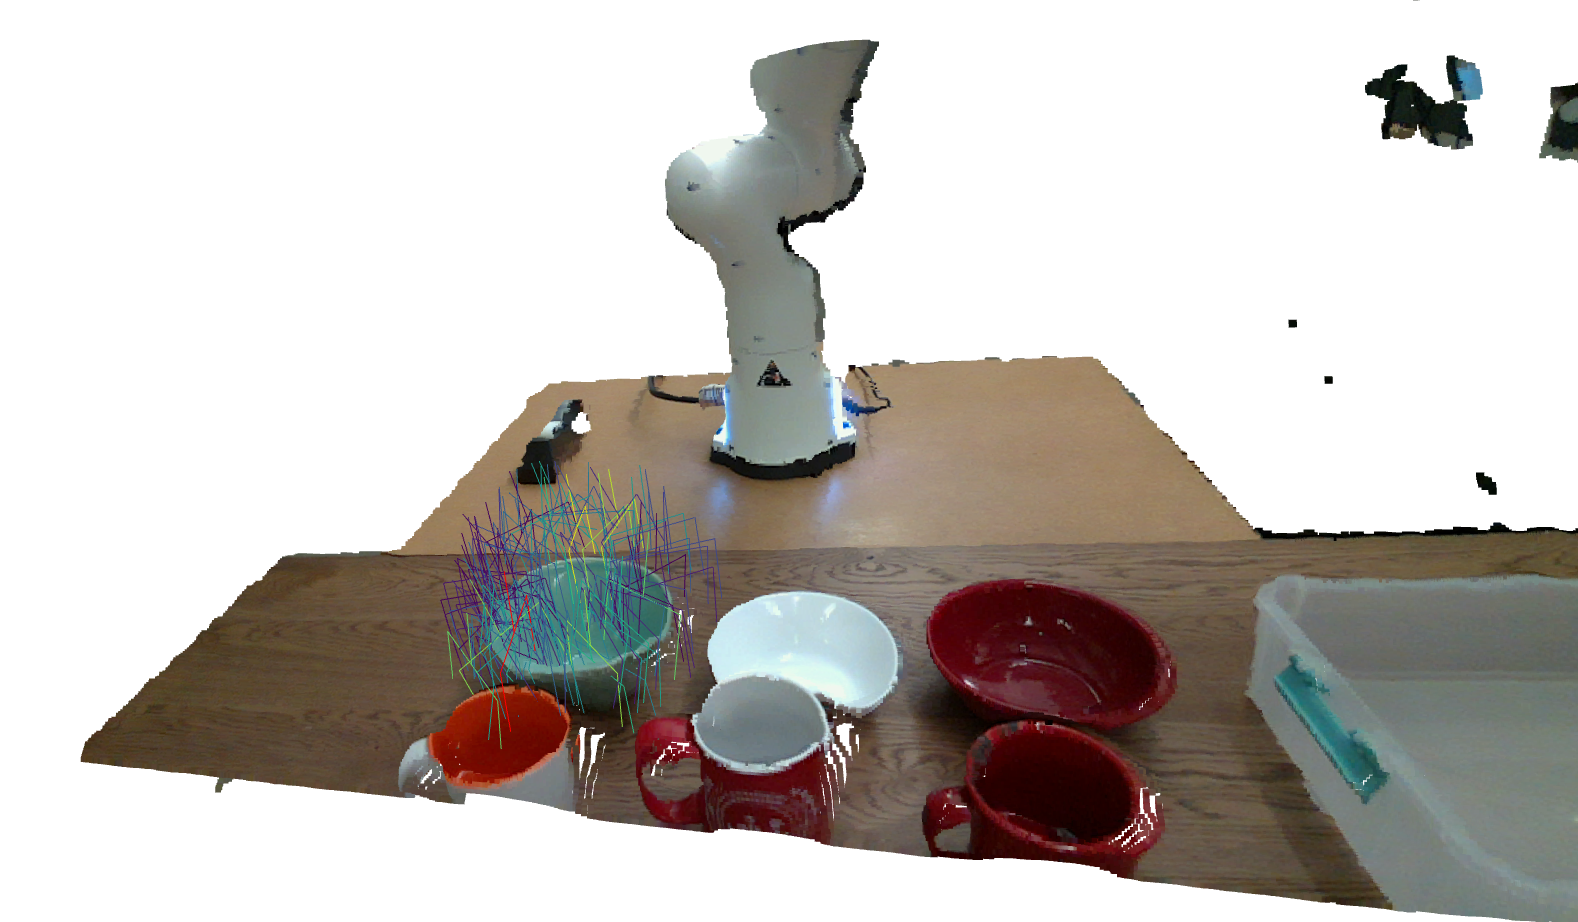
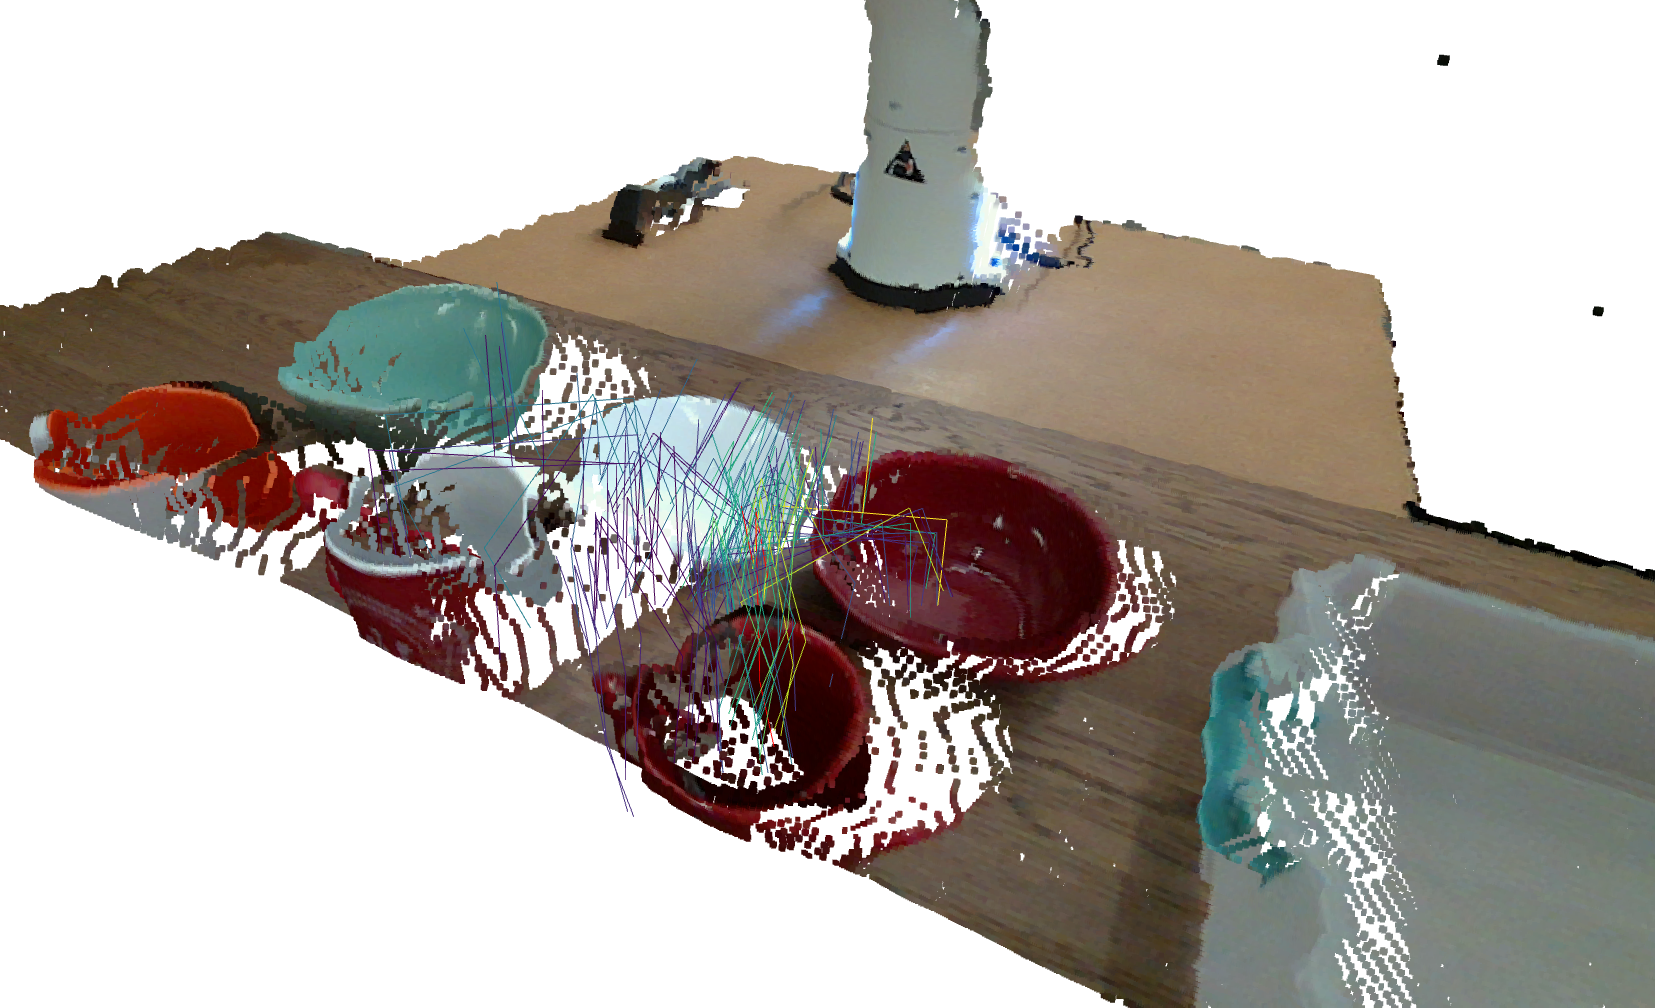
Update grasp estimation tests

diff --git a/tests/grasp/grasp_uois_test.py b/tests/grasp/grasp_uois_test.py
@@ -1,0 +1,91 @@
+import argparse
+import time
+from pathlib import Path
+
+import cv2
+import numpy as np
+import torch
+
+from obj_manipulation.grasp import GraspEstimatorCGN, PointCloudFilterUOIS
+from obj_manipulation.grasp.utils import (
+    depth_map_to_xyz,
+    load_config,
+)
+from obj_manipulation.grasp.utils.utils_visualization import visualize_grasps
+
+
+def seed_everything(seed: int) -> None:
+    np.random.seed(seed)
+    torch.manual_seed(seed)
+    torch.cuda.manual_seed(seed)
+    torch.cuda.manual_seed_all(seed)
+    torch.backends.cudnn.deterministic = True
+    torch.backends.cudnn.benchmark = False
+
+
+def main(file: str, vis_width: bool):
+    # Seed PyTorch and NumPy to ensure that repeatable results
+    seed_everything(seed=0)
+    
+    # Initialize point cloud filter using the UOIS segmentation module
+    pc_filter = PointCloudFilterUOIS()
+
+    # Load grasp estimator configuration
+    config_path = Path(__file__).parents[2] / "obj_manipulation/grasp/config/config.toml"
+    assert config_path.exists()
+    config = load_config(config_path)
+
+    # Initialize grasp estimator and load its pre-trained weights 
+    grasp_est = GraspEstimatorCGN(config)
+    grasp_est.load()
+    grasp_est.eval_mode()
+
+    # Load test example
+    path = Path(__file__).parent / f"examples/{file}"
+    assert path.exists(), f"Test file {file} does not exist at {path}."
+    print(f"Loading test example: {path}")
+    data = np.load(path, allow_pickle=True).item()
+
+    # Get RGB image and XYZ (directly or from depth and camera intrinsics)
+    assert "rgb" in data, f"RGB image data is not available in {file}."
+    rgb_img = np.array(data["rgb"], dtype=np.uint8)
+    rgb_img = cv2.cvtColor(rgb_img, cv2.COLOR_BGR2RGB)
+    if "xyz" in data:
+        print("\tusing stored XYZ image")
+        xyz_img = np.array(data["xyz"])
+    else:
+        assert "depth" in data, f"Depth image data not available in {file}."
+        assert "K" in data, f"Calibration data not available in {file}."
+        print("\textracting XYZ image from depth map and camera intrinsics")
+        depth, intrinsics = np.array(data["depth"]), np.array(data["K"])
+        xyz_img = depth_map_to_xyz(depth, intrinsics)
+    
+    # Predict grasps for a single object
+    start = time.time()
+    xyz_pc, xyz_object_pc, _ = pc_filter.filter_point_cloud(xyz_img, rgb_img, n_points=20_000)
+    pred = grasp_est.predict_grasps(xyz_pc, xyz_object_pc)
+    delta = time.time() - start
+    print(f"Grasp prediciton took {delta:.2f} seconds")
+    if pred is not None:
+        depth_mask = np.logical_and(depth > grasp_est.min_depth, depth < grasp_est.max_depth)
+        pred_widths = pred["pred_widths"] if vis_width \
+            else np.full_like(pred["pred_widths"], grasp_est.gripper_width)
+        visualize_grasps(
+            xyz_img[depth_mask],
+            rgb_img[depth_mask],
+            [pred["pred_grasps"]],
+            [pred["pred_scores"]],
+            [pred_widths],
+            config["gripper_depth"],
+        )
+    else:
+        print("Grasp estimator failed to find any valid grasps")
+
+
+if __name__ == "__main__":
+    parser = argparse.ArgumentParser()
+    parser.add_argument("-f", "--file", default="0.npy")
+    parser.add_argument("-v", "--vis_width", action="store_true", default=False)
+    args = parser.parse_args()
+
+    main(file=args.file, vis_width=args.vis_width)

diff --git a/tests/grasp/grasp_sam_test.py b/tests/grasp/grasp_sam_test.py
@@ -6,7 +6,7 @@ import cv2
 import numpy as np
 import torch
 
-from obj_manipulation.grasp import GraspEstimatorCGN
+from obj_manipulation.grasp import GraspEstimatorCGN, PointCloudFilterSAM
 from obj_manipulation.grasp.utils import (
     depth_map_to_xyz,
     load_config,
@@ -27,7 +27,10 @@ def main(file: str, vis_width: bool):
     # Seed PyTorch and NumPy to ensure that repeatable results
     seed_everything(seed=0)
     
-    # Load configuration
+    # Initialize point cloud filter using the SAM segmentation module
+    pc_filter = PointCloudFilterSAM()
+
+    # Load grasp estimator configuration
     config_path = Path(__file__).parents[2] / "obj_manipulation/grasp/config/config.toml"
     assert config_path.exists()
     config = load_config(config_path)
@@ -57,13 +60,20 @@ def main(file: str, vis_width: bool):
         depth, intrinsics = np.array(data["depth"]), np.array(data["K"])
         xyz_img = depth_map_to_xyz(depth, intrinsics)
     
+    # Resize to same input resolution as provided by RGB-D camera
+    rgb_img = cv2.resize(rgb_img, (640, 480))
+    xyz_img = cv2.resize(xyz_img, (640, 480), interpolation=cv2.INTER_NEAREST)
+
     # Predict grasps for a single object
     start = time.time()
-    pred = grasp_est.predict_grasps(xyz_img.copy(), rgb_img.copy())
+    xyz_pc, xyz_object_pc, _ = pc_filter.filter_point_cloud(xyz_img, rgb_img, n_points=20_000)
+    pred = grasp_est.predict_grasps(xyz_pc, xyz_object_pc)
     delta = time.time() - start
     print(f"Grasp prediciton took {delta:.2f} seconds")
     if pred is not None:
-        depth_mask = np.logical_and(depth > grasp_est.min_depth, depth < grasp_est.max_depth)
+        depth_mask = np.logical_and(
+            xyz_img[..., -1] > grasp_est.min_depth, xyz_img[..., -1] < grasp_est.max_depth
+        )
         pred_widths = pred["pred_widths"] if vis_width \
             else np.full_like(pred["pred_widths"], grasp_est.gripper_width)
         visualize_grasps(

diff --git a/tests/grasp/pc_filter_sam_auto_test.py b/tests/grasp/pc_filter_sam_auto_test.py
@@ -49,7 +49,7 @@ def main(file: str):
 
     # Resize to same input resolution as provided by RGB-D camera
     rgb_img = cv2.resize(rgb_img, (640, 480))
-    xyz_img = cv2.resize(xyz_img, (640, 480))    
+    xyz_img = cv2.resize(xyz_img, (640, 480), interpolation=cv2.INTER_NEAREST)    
 
     # Test instance segmentation module separatley
     masks, centers = pc_filter.ins_seg.segment(xyz_img, rgb_img)

diff --git a/tests/grasp/pc_filter_sam_select_test.py b/tests/grasp/pc_filter_sam_select_test.py
@@ -61,7 +61,7 @@ def main(file: str):
     
     # Resize to same input resolution as provided by RGB-D camera
     rgb_img = cv2.resize(rgb_img, (640, 480))
-    xyz_img = cv2.resize(xyz_img, (640, 480))
+    xyz_img = cv2.resize(xyz_img, (640, 480), interpolation=cv2.INTER_NEAREST)
 
     # Test instance segmentation module separatley
     masks, centers = pc_filter.ins_seg.segment(xyz_img, rgb_img)

diff --git a/tests/grasp/examples/README.md b/tests/grasp/examples/README.md
@@ -13,7 +13,8 @@ Additionally, since grasp estimation relies on instance segmentation, you must f
 To do this, follow the instructions given in the following [`README.md`](../../segment/examples/README.md) file.
 
 
-Then, you can run the following grasp estimation test script to ensure that the model works as expected.
+Then, you can run the following grasp estimation test scripts to ensure that the model works as expected.
+The first script uses the point cloud filter based on the the `UOIS` instance segmentation module, while the second relies on the `SAM` module for instance segmentation.
 
 ```bash
 # Setup ROS package environment variables
@@ -21,14 +22,15 @@ cd /catkin_ws
 catkin_make
 source devel/setup.bash
 
-# Run test script
+# Run test scripts
 cd /catkin_ws/src/obj_manipulation
-python3 tests/grasp/grasp_test.py -f 0.npy
+python3 tests/grasp/grasp_uois_test.py -f 0.npy
+python3 tests/grasp/grasp_sam_test.py -f 0.npy
 ```
 
 # Expected Results
 
-The following figure showcases the expected grasp estimation results from the `grasp_test.py` test script.
+The following figure showcases the expected grasp estimation results from the `grasp_uois_test.py` test script.
 The colors of the shown grasps represent their predicted success probabilities.
 All grasps are shown with a fixed grasp width set to the gripper's width.
 <p align="center">
